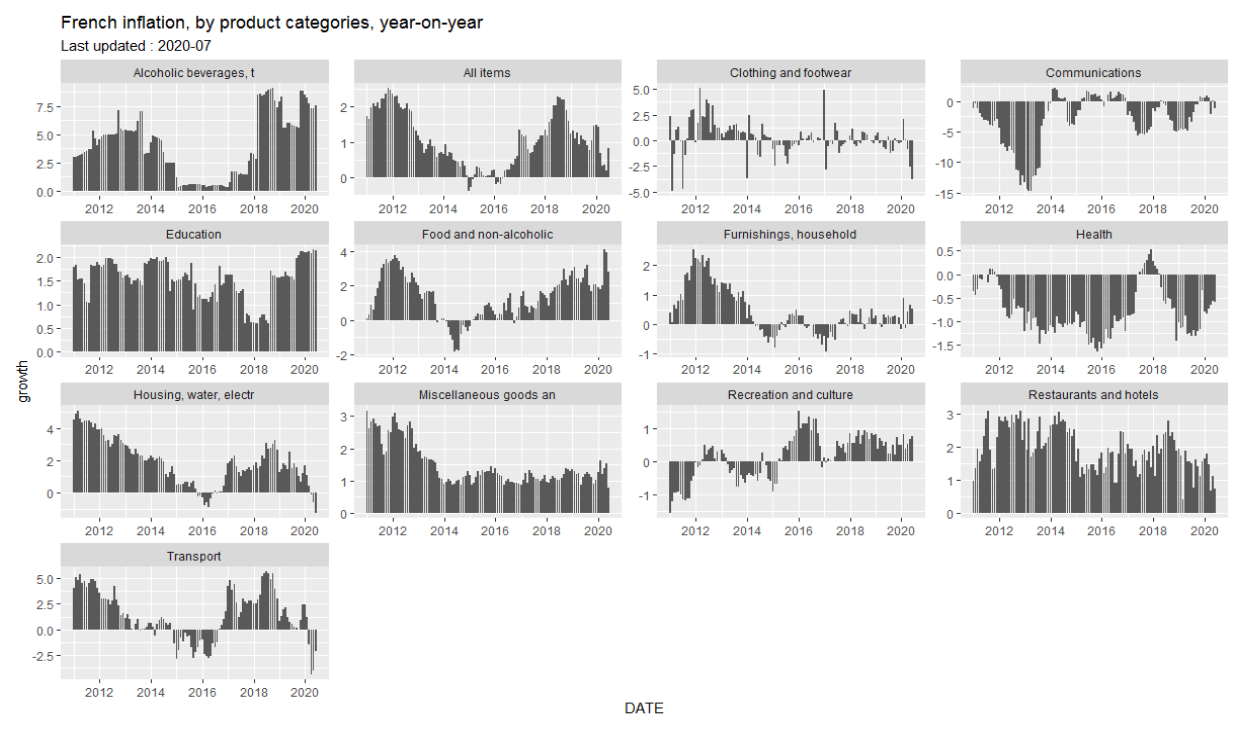
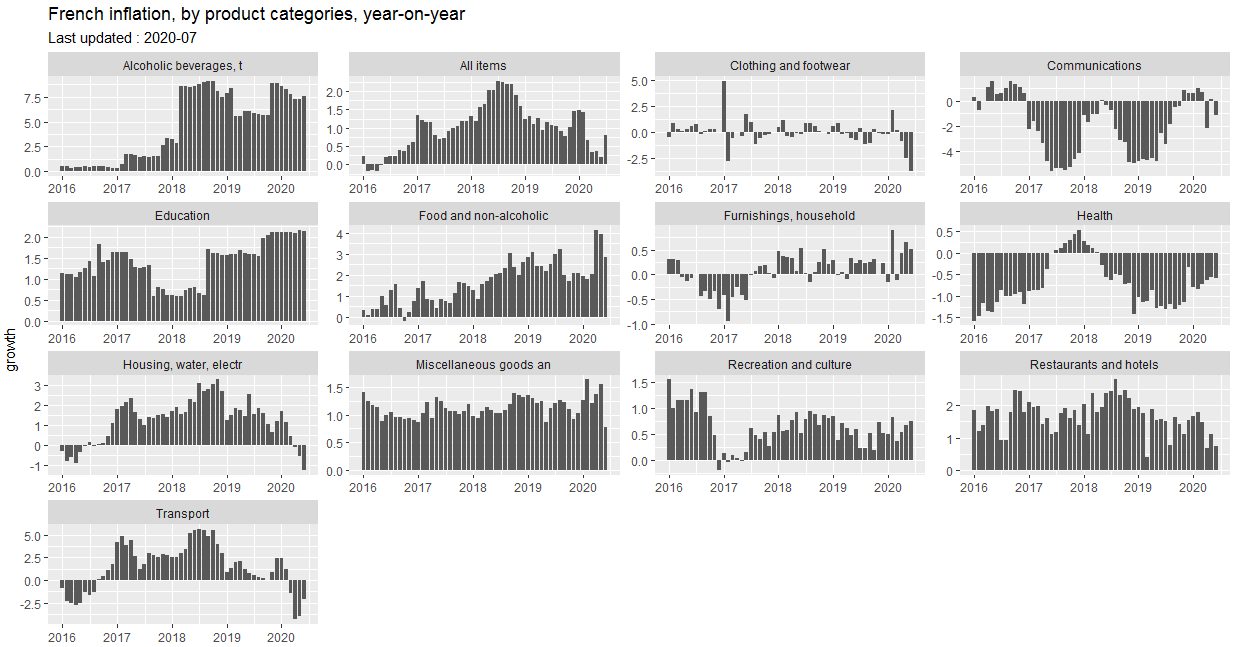
webstite/doc update

diff --git a/docs/reference/get_insee_idbank.html b/docs/reference/get_insee_idbank.html
@@ -174,10 +174,10 @@
 
 <span class='co'>#example 2 : unemployment data</span>
 
-<span class='fu'><a href='https://rdrr.io/r/base/library.html'>library</a></span>(<span class='no'>tidyverse</span>)</div><div class='output co'>#&gt; <span class='message'>-- <span style='font-weight: bold;'>Attaching packages</span><span> ---------------------------------------------------------------- tidyverse 1.3.0 --</span></div><div class='output co'>#&gt; <span class='message'></span><span style='color: #00BB00;'>v</span><span> </span><span style='color: #0000BB;'>ggplot2</span><span> 3.3.2     </span><span style='color: #00BB00;'>v</span><span> </span><span style='color: #0000BB;'>purrr  </span><span> 0.3.4</span>
+<span class='fu'><a href='https://rdrr.io/r/base/library.html'>library</a></span>(<span class='no'>tidyverse</span>)</div><div class='output co'>#&gt; <span class='message'>-- <span style='font-weight: bold;'>Attaching packages</span><span> ------------------------------------------------------------ tidyverse 1.3.0 --</span></div><div class='output co'>#&gt; <span class='message'></span><span style='color: #00BB00;'>v</span><span> </span><span style='color: #0000BB;'>ggplot2</span><span> 3.3.2     </span><span style='color: #00BB00;'>v</span><span> </span><span style='color: #0000BB;'>purrr  </span><span> 0.3.4</span>
 #&gt; <span class='message'></span><span style='color: #00BB00;'>v</span><span> </span><span style='color: #0000BB;'>tibble </span><span> 3.0.1     </span><span style='color: #00BB00;'>v</span><span> </span><span style='color: #0000BB;'>dplyr  </span><span> 1.0.0</span>
 #&gt; <span class='message'></span><span style='color: #00BB00;'>v</span><span> </span><span style='color: #0000BB;'>tidyr  </span><span> 1.1.0     </span><span style='color: #00BB00;'>v</span><span> </span><span style='color: #0000BB;'>stringr</span><span> 1.4.0</span>
-#&gt; <span class='message'></span><span style='color: #00BB00;'>v</span><span> </span><span style='color: #0000BB;'>readr  </span><span> 1.3.1     </span><span style='color: #00BB00;'>v</span><span> </span><span style='color: #0000BB;'>forcats</span><span> 0.5.0</span></div><div class='output co'>#&gt; <span class='message'>-- </span><span style='font-weight: bold;'>Conflicts</span><span> ------------------------------------------------------------------- tidyverse_conflicts() --</span>
+#&gt; <span class='message'></span><span style='color: #00BB00;'>v</span><span> </span><span style='color: #0000BB;'>readr  </span><span> 1.3.1     </span><span style='color: #00BB00;'>v</span><span> </span><span style='color: #0000BB;'>forcats</span><span> 0.5.0</span></div><div class='output co'>#&gt; <span class='message'>-- </span><span style='font-weight: bold;'>Conflicts</span><span> --------------------------------------------------------------- tidyverse_conflicts() --</span>
 #&gt; <span class='message'></span><span style='color: #BB0000;'>x</span><span> </span><span style='color: #0000BB;'>dplyr</span><span>::</span><span style='color: #00BB00;'>filter()</span><span> masks </span><span style='color: #0000BB;'>stats</span><span>::filter()</span>
 #&gt; <span class='message'></span><span style='color: #BB0000;'>x</span><span> </span><span style='color: #0000BB;'>dplyr</span><span>::</span><span style='color: #00BB00;'>lag()</span><span>    masks </span><span style='color: #0000BB;'>stats</span><span>::lag()</span></div><div class='input'>
 <span class='no'>idbank_list</span> <span class='kw'>=</span> <span class='fu'><a href='get_idbank_list.html'>get_idbank_list</a></span>()

diff --git a/docs/articles/insee-vignettes.html b/docs/articles/insee-vignettes.html
@@ -256,7 +256,7 @@
 
 <span class="no">list_idbank</span> <span class="kw">=</span> <span class="no">df_idbank_list_selected</span> <span class="kw">%&gt;%</span> <span class="fu">pull</span>(<span class="no">idbank</span>)
 
-<span class="no">data</span> <span class="kw">=</span> <span class="fu"><a href="../reference/get_insee_idbank.html">get_insee_idbank</a></span>(<span class="no">list_idbank</span>, <span class="kw">startPeriod</span> <span class="kw">=</span> <span class="st">"2010-01"</span>)
+<span class="no">data</span> <span class="kw">=</span> <span class="fu"><a href="../reference/get_insee_idbank.html">get_insee_idbank</a></span>(<span class="no">list_idbank</span>, <span class="kw">startPeriod</span> <span class="kw">=</span> <span class="st">"2015-01"</span>)
 
 <span class="no">n_sep</span> <span class="kw">=</span> <span class="fu">str_count</span>(<span class="no">data</span>$<span class="no">TITLE_FR</span>[<span class="fl">1</span>], <span class="st">" - "</span>) + <span class="fl">1</span>
 

diff --git a/README.md b/README.md
@@ -2,11 +2,9 @@ insee R package
 ================
 
 <br>
-
-[![CRAN status](https://www.r-pkg.org/badges/version/insee)](https://cran.r-project.org/package=insee) 
-[![Downloads](https://cranlogs.r-pkg.org/badges/grand-total/insee)](https://cran.r-project.org/package=insee) 
-[![Downloads](https://cranlogs.r-pkg.org/badges/insee)](https://cran.r-project.org/package=insee) 
-
+[![CRAN status](https://www.r-pkg.org/badges/version/insee)](https://cran.r-project.org/package=insee)
+[![Downloads](https://cranlogs.r-pkg.org/badges/grand-total/insee)](https://cran.r-project.org/package=insee)
+[![Downloads](https://cranlogs.r-pkg.org/badges/insee)](https://cran.r-project.org/package=insee)
 <br>
 
 ## Overview
@@ -136,7 +134,7 @@ df_idbank_list_selected =
 
 list_idbank = df_idbank_list_selected %>% pull(idbank)
 
-data = get_insee_idbank(list_idbank, startPeriod = "2010-01")
+data = get_insee_idbank(list_idbank, startPeriod = "2015-01")
 
 n_sep = str_count(data$TITLE_FR[1], " - ") + 1
 
